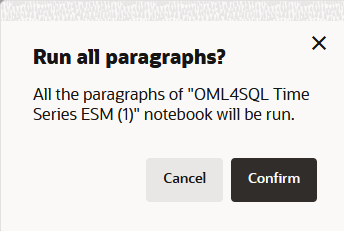
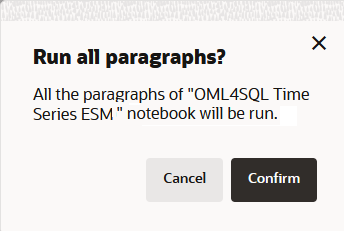
WMS ID 922: Pull Request only for Lab 2: Introduction to Oracle Machine Learning for SQL (#64)
* updated content

* content updated

* content updated

* images updated

* images and content updated

* content updated

* content updated

* content updated

* content updated

* content updated

* content updated

* updates

updates to the lab

* updates

* updates

* changes

* intro updated

* updated intro

* updated

* updated content

* updated

* content updated

* updated content

* content updated

* Update move-model-to-db2.md

* Update connect-provision-adb2.md

* Update create-ml-model-ll2.md

* Update create-ml-model2.md

* content updated

* Update create-ml-model-ll2.md

* Update create-ml-model-ll2.md

* Update move-model-to-db-ll2.md

* Update integrate-with-app-ll2.md

* updated

* Lab 3 intro updated

* content updated

* expiration date updated

* obj storage link updated

* Alt text for images updated

* image names updated and unused images deleted

* unused images deleted

* image added

* edits and intro updated

* Qrt QA check done

* Update manifest.json

* edits to the manifest file - freetier

* change to livelabs - added Lab 1 as prefix

* edits as per Mark's comments

* Update notebooklist.png

image updated

* Update omlsql.md

updated made to remove (1) in the file and month & year updated.

* Update omlsql.md

image update and notebook name changed to remove (1)

* Update notebooklist.png

image updated

* Update open-esm-notebook.png

image modified

* Update timeseries-run-all-confirmation.png

image modified

Changed region(s): [[0.3198, 0.4545, 0.8721, 0.5455]]

diff --git a/oml-fun-on-adb/omlsql/omlsql.md b/oml-fun-on-adb/omlsql/omlsql.md
@@ -2,7 +2,7 @@
 
 ## Introduction
 
- This lab walks you through the steps to explore, build, evaluate, and score data using OML4SQL from a Time Series example available in OML Notebooks. The data set used in this example is from the SH schema. The SH schema can be readily accessed in Oracle Autonomous Database. Oracle includes the Exponential Smoothing (ESM) algorithm for time series. Exponential smoothing is a forecasting method for time series data. It is a moving average method where exponentially decreasing weights are assigned to past observations.
+ This lab walks you through the steps to explore, build, evaluate, develop and forecast using a time series model with OML4SQL from a Time Series example available in OML Notebooks. The data set used in this example is from the SH schema. The SH schema can be readily accessed in Oracle Autonomous Database. Oracle includes the Exponential Smoothing (ESM) algorithm for time series. Exponential smoothing is a forecasting method for time series data. It is a moving average method where exponentially decreasing weights are assigned to past observations.
 
 Estimated Time: 30 minutes
 
@@ -12,10 +12,10 @@ OML4SQL provides a powerful, state-of-the-art machine learning capability within
 ### Objectives
 
 In this lab, you will:
-* Explore the data using SQL queries
-* Build a Time Series model
-* Evaluate the model using standard diagnostic metrics
-* Access the forecasts from the DM$VP view
+* Explore data using SQL queries
+* Build a time series-based model
+* Evaluate the time series model using standard diagnostic metrics provided by OML4SQL
+* Access the forecasts from the DM$VP model view
 
 ### Prerequisites
 
@@ -27,11 +27,11 @@ This lab assumes you have:
 
 1. Click the Cloud menu icon Cloud menu icon ![Cloud menu icon](images/cloud-menu-icon.png) to open the left navigation menu and click **Notebooks**.
 
-2. The Notebooks page opens with all the notebooks listed in it. Click the **OML4SQL Time Series ESM (1)** notebook to open it.
+2. The Notebooks page opens with all the notebooks listed in it. Click the **OML4SQL Time Series ESM** notebook to open it.
 
     ![ESM Notebooks listed](images/open-esm-notebook.png)
 
-3. The _OML4SQL Time Series ESM (1)_ notebook opens in the notebook editor. Click the gear icon to view and set the interpreter binding order.
+3. The _OML4SQL Time Series ESM_ notebook opens in the notebook editor. Click the gear icon to view and set the interpreter binding order.
 
 4. Click the play button at the top to run all paragraphs of the notebook.
 
@@ -295,4 +295,4 @@ This completes the prediction step. The model has successfully forecast sales fo
 
 * **Author** - Sarika Surampudi, Principal User Assistance Developer, Oracle Database User Assistance Development
 * **Contributors** -  Mark Hornick, Sr. Director, Data Science and Oracle Machine Learning Product Management; Sherry LaMonica, Consulting Member of Technical Staff, Machine Learning;  Marcos Arancibia, Senior Principal Product Manager, Machine Learning
-* **Last Updated By/Date** - Moitreyee Hazarika, October 2024
+* **Last Updated By/Date** - Sarika Surampudi, January 2025
